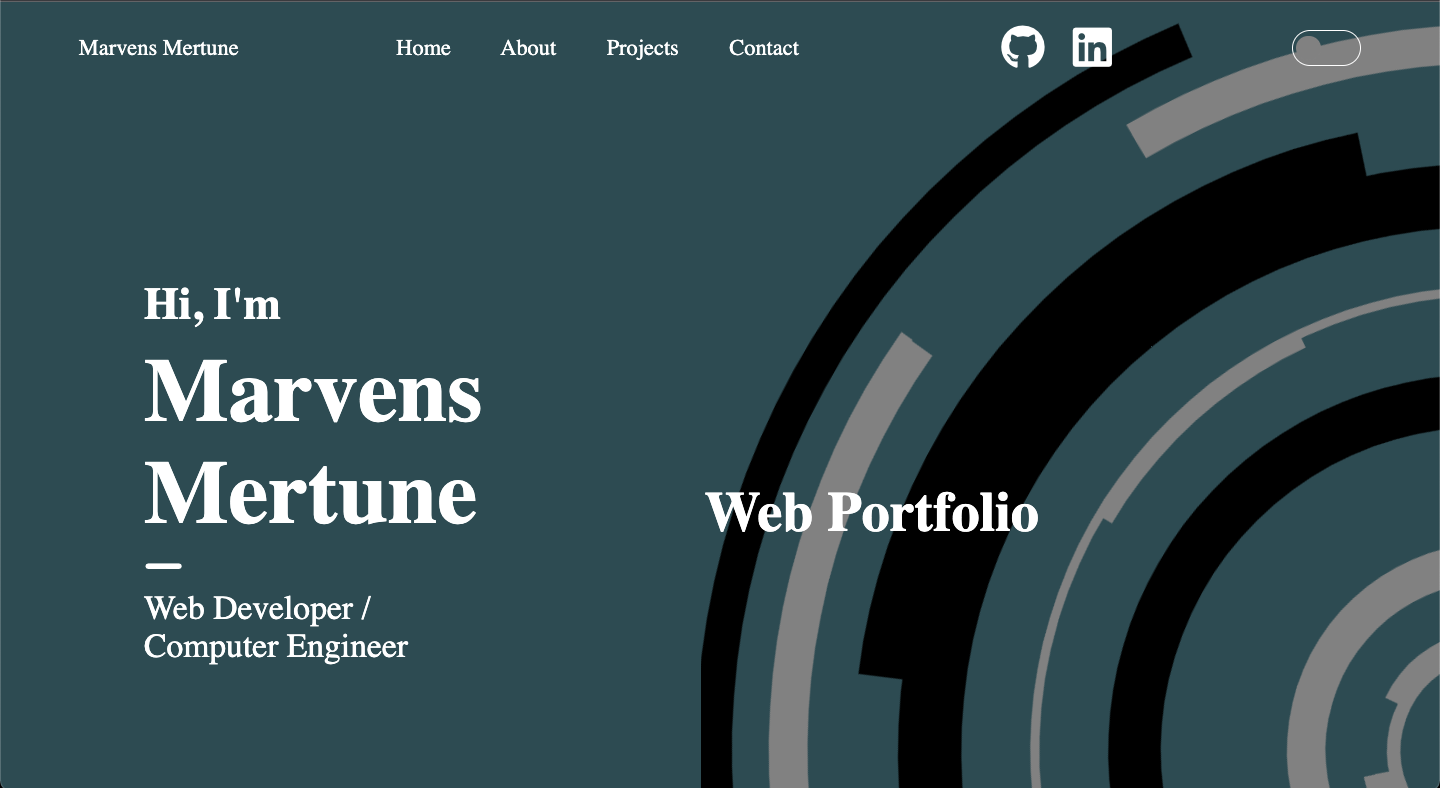
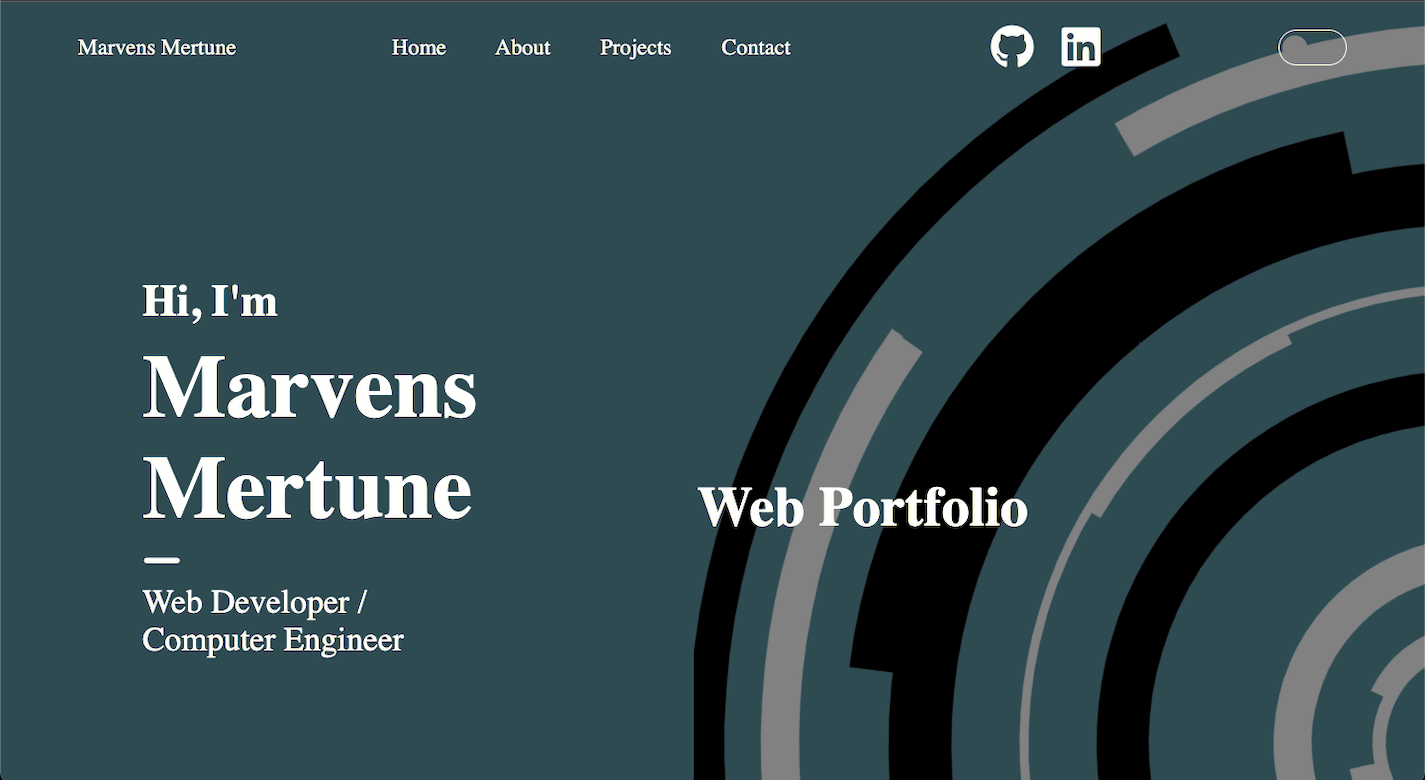
added "about" section and formatted image

diff --git a/src/assets/css/app.css b/src/assets/css/app.css
@@ -1,22 +1,26 @@
 .app {
   display: grid;
   grid-template-columns: var(--app-margin) 10vw 1fr 10vw var(--app-margin);
-  grid-template-rows: 100vh auto 90vh 10vh;
+  grid-template-rows: repeat(2, 100vh) auto 90vh 10vh;
 }
 
 .grid_hero {
   grid-row: 1;
   grid-column: 3;
 }
-.grid_projects {
-  grid-row: 2;
+.grid_about{
+  grid-row:2;
   grid-column: 3;
 }
-.grid_contact {
+.grid_projects {
   grid-row: 3;
   grid-column: 3;
 }
-.grid_footer {
+.grid_contact {
   grid-row: 4;
+  grid-column: 3;
+}
+.grid_footer {
+  grid-row: 5;
   grid-column: 3;
 }

diff --git a/src/App.jsx b/src/App.jsx
@@ -1,12 +1,13 @@
 import React from 'react'
 import './assets/css/app.css';
-import {Contact, Hero, Header, Projects, Footer} from './pages'
+import {Contact, Hero, Header, Projects, Footer, About} from './pages'
 
 const App = () => {
   return (
     <div className='app'>
       <Header />
       <Hero />
+      <About />
       <Projects />
       <Contact />
       <Footer />

diff --git a/src/pages/index.jsx b/src/pages/index.jsx
@@ -1,5 +1,6 @@
 export {default as Header} from "./Header"
-export {default as Contact} from "./Contact"
 export {default as Hero} from "./Hero"
+export {default as About} from "./About"
 export {default as Projects} from "./Projects"
+export {default as Contact} from "./Contact"
 export {default as Footer} from "./Footer"

diff --git a/src/assets/css/global.css b/src/assets/css/global.css
@@ -27,8 +27,12 @@ html {
 }
 
 body {
-  /* width: 100%;
-  height: 100%; */
+  width: 100%;
+  height: 100%;
+  overscroll-behavior: none;
+  scroll-behavior: smooth;
+  margin:0;
+  padding: 0;
   color: var(--small-txt-clr);
   line-height: 1.3;
 }

diff --git a/src/assets/css/header.css b/src/assets/css/header.css
@@ -8,7 +8,7 @@
     justify-content: space-between;
     align-items: center;
     background: var(--drk-backgrnd-grdnt-transparent);
-    backdrop-filter: blur(20px);
+    backdrop-filter: blur(10px);
     width: 100%;
 }
 .header_iconContainer{

diff --git a/src/pages/About.jsx b/src/pages/About.jsx
@@ -1,0 +1,12 @@
+import React from 'react'
+import "../assets/css/about.css"
+
+const About = () => {
+  return (
+    <div className='about grid_about'>
+        <h1 className='about_title'>About</h1>
+    </div>
+  )
+}
+
+export default About

diff --git a/src/assets/css/about.css b/src/assets/css/about.css
@@ -1,0 +1,10 @@
+.about {
+  display: flex;
+  flex-direction: column;
+  justify-content: center;
+  align-items: center;
+}
+
+.about_title{
+    color: var(--baby-blue);
+}
